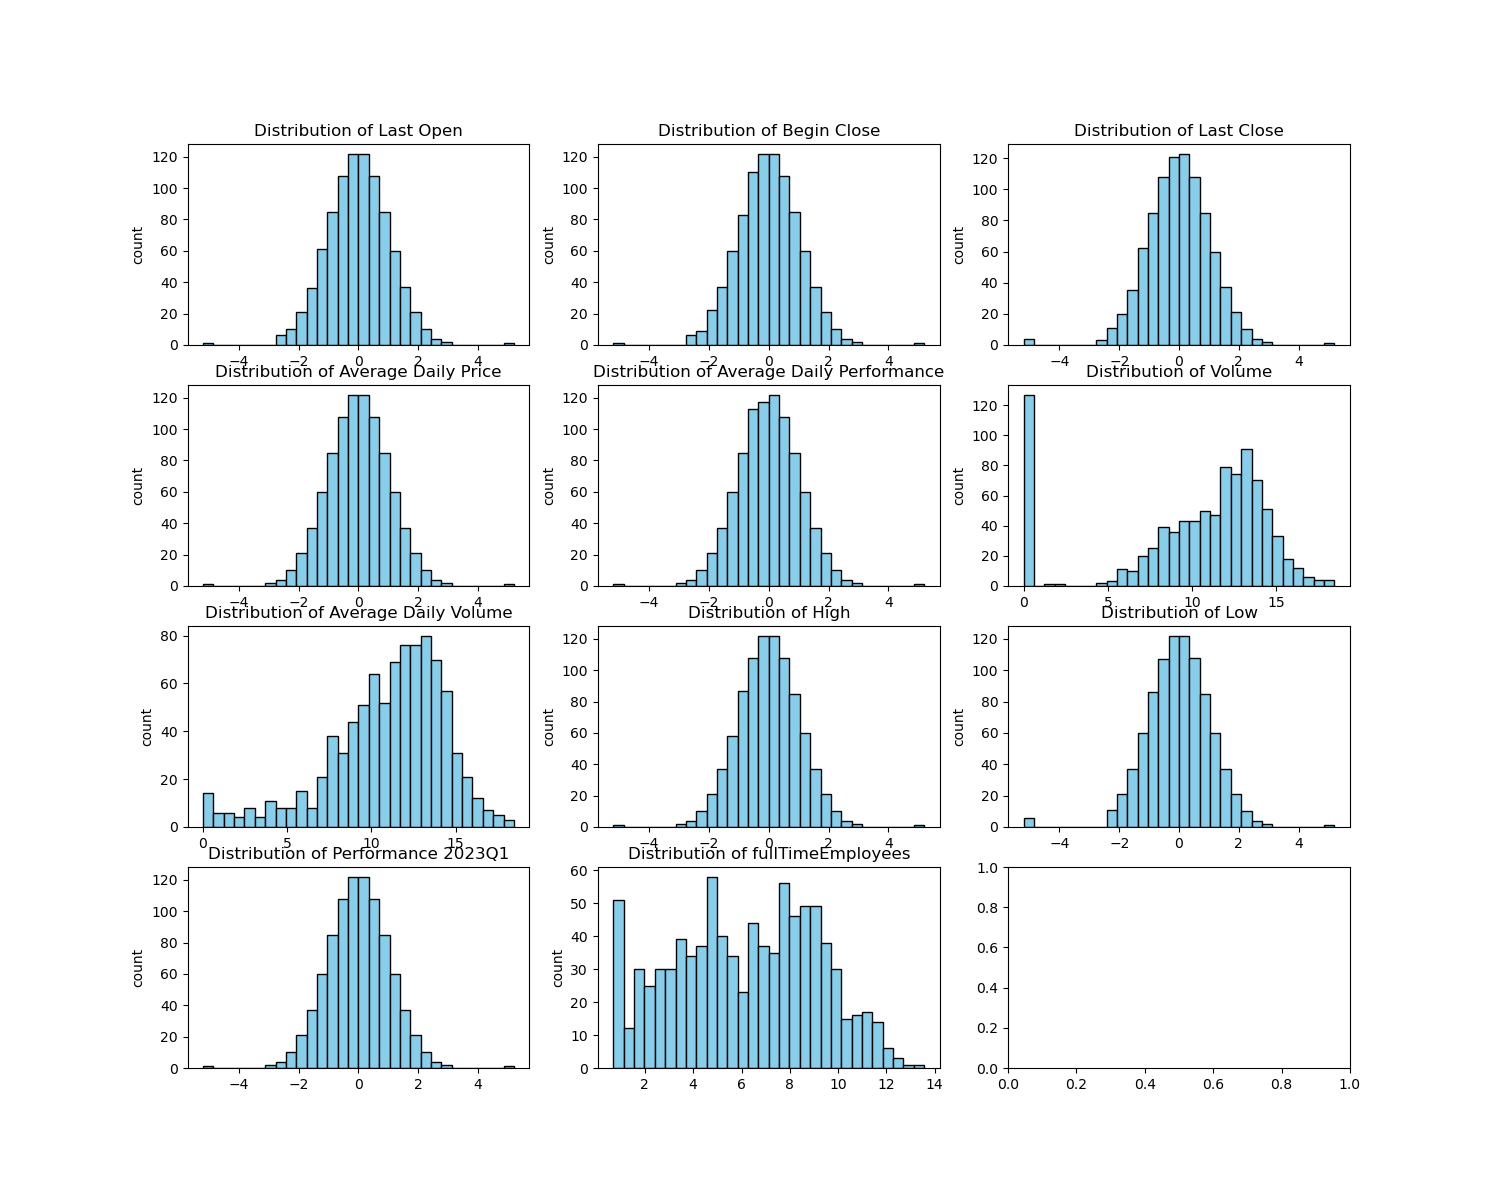
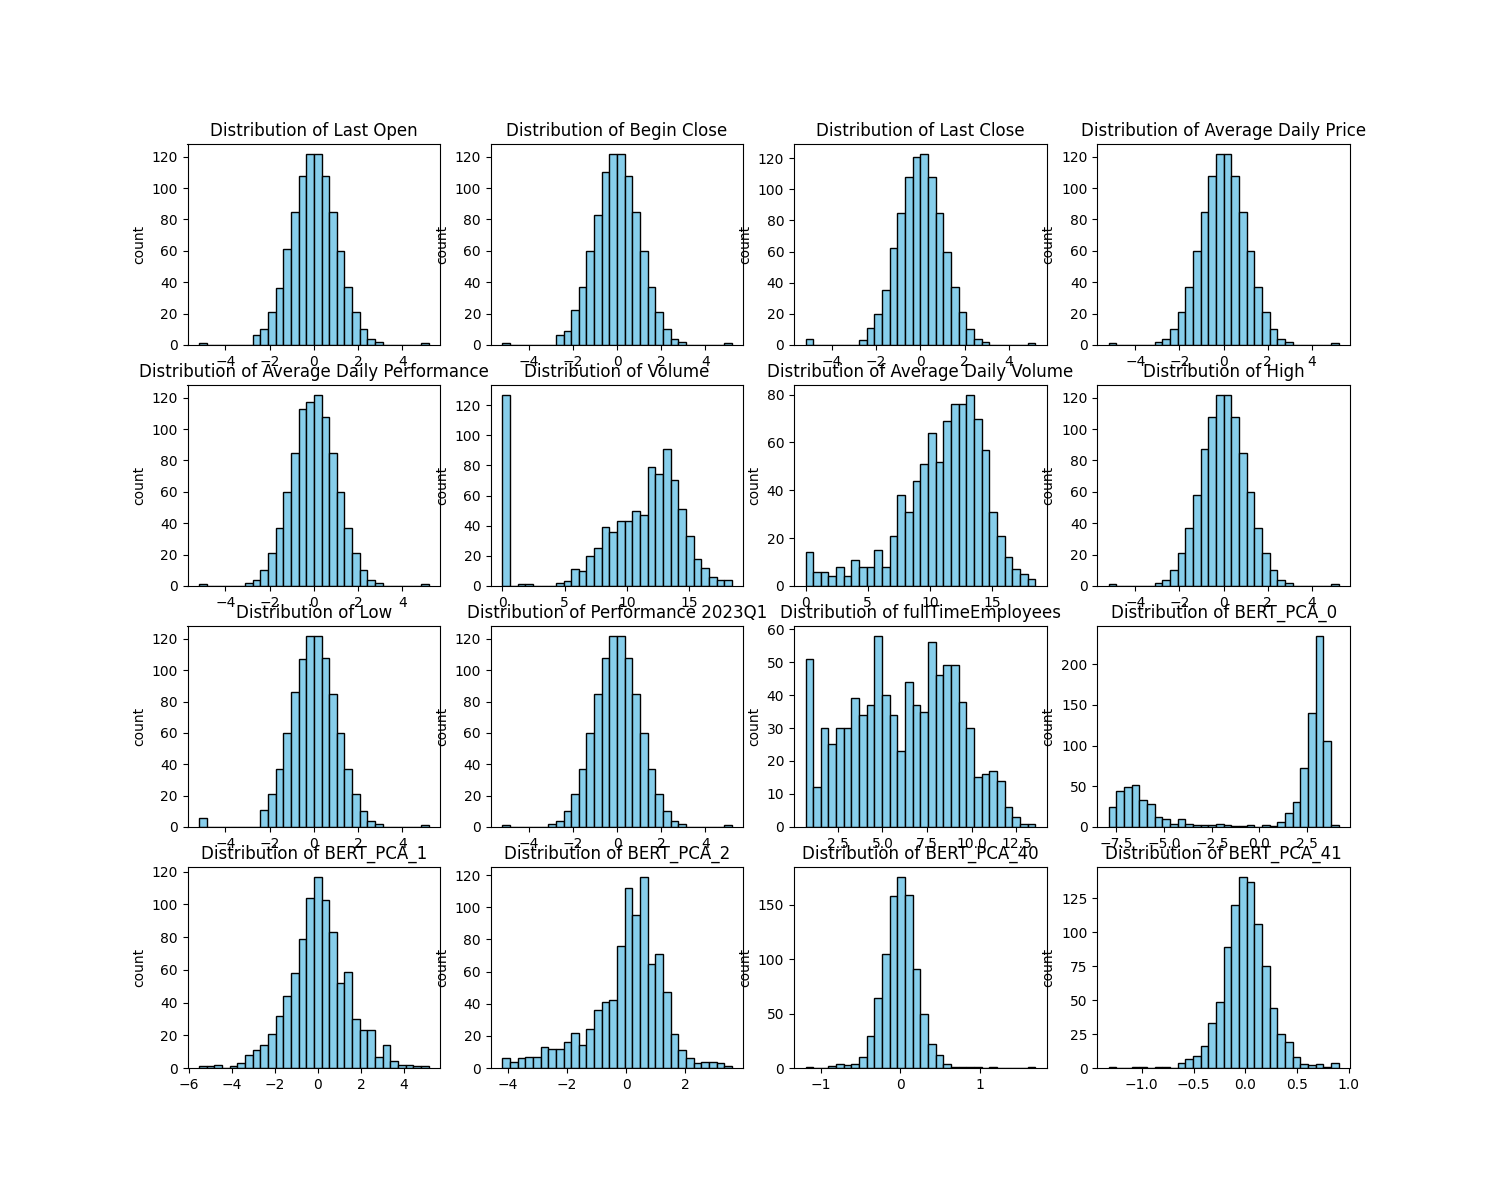
fixed the the relative path to absolute path

diff --git a/src/preprossessing_data.py b/src/preprossessing_data.py
@@ -20,7 +20,7 @@ def plot_missing_data(df: pd.DataFrame, title):
     ax.set_xlabel('Features')
     ax.set_ylabel('No. missing data')
     ax.set_title('Plot of number missing data')
-    plt.savefig(f'../output/plot/{title}')
+    plt.savefig(f'output/plot/{title}')
     plt.close(fig)
 
 
@@ -101,7 +101,7 @@ def encode_category(df):
 
 
 def process_category(df):
-    with open('../output/category_counts.txt', 'w') as f:
+    with open('output/category_counts.txt', 'w') as f:
         f.write(df['Relative 2023Q2 Label'].value_counts().to_string())
         f.write('\n\n')
         f.write(df['sector'].value_counts().to_string())
@@ -162,7 +162,7 @@ def plot_outcome(df):
     ax.grid(axis='both', which='major', linewidth=0.5)
     ax.set_title('Histogram of Stock performance in 2023Q2 relative to index stock performance')
     ax.set_xlabel('Relative percentage')
-    plt.savefig('../output/plot/histogram_relative')
+    plt.savefig('output/plot/histogram_relative')
     plt.close(fig)
 
 
@@ -176,7 +176,7 @@ def plot_employees(df):
     plt.xscale('log')
     ax.set_title('Histogram of Employees employed full-time')
     ax.set_xlabel('Full-time Employees')
-    plt.savefig('../output/plot/histogram_employee')
+    plt.savefig('output/plot/histogram_employee')
     plt.close(fig)
 
 
@@ -186,11 +186,11 @@ def plot_heatmap(df):
     fig, ax = plt.subplots(figsize=(10, 10))
     sns.heatmap(df_encoded.corr(numeric_only=True), cmap="YlGnBu")
     ax.set_title("Correlations Heatmap between features")
-    fig.savefig("../output/plot/heatmap")
+    fig.savefig("output/plot/heatmap")
     plt.close(fig)
 
 def main():
-    df = pd.read_csv('../data/stocks_data_processed.csv')
+    df = pd.read_csv('data/stocks_data_processed.csv')
     stocks = df['Company']
 
     plot_missing_data(df, 'missing_data')
@@ -202,7 +202,7 @@ def main():
     df_process['Stock'] = stocks #Rename and attach stock name at the end
 
     plot_heatmap(df_process)
-    df_process.to_csv('../data/stocks_data_processed_imputed.csv', index=False)
+    df_process.to_csv('data/stocks_data_processed_imputed.csv', index=False)
 
 
 if __name__ == '__main__':

diff --git a/src/outlier_detection.py b/src/outlier_detection.py
@@ -30,7 +30,7 @@ def outlier_detection(df):
     axs[1].scatter(df_encoded_pca[:, 0],
                    df_encoded_pca[:, 1], s=10, color=colors[(isf_outlier + 1) // 2])
     axs[1].set_title("Isolation Forest result")
-    plt.savefig("../output/plot/outlier_result")
+    plt.savefig("output/plot/outlier_result")
 
     plt.close(fig)
 
@@ -43,18 +43,18 @@ def outlier_detection(df):
                                    'Local Outlier Factor': lof_outlier,
                                    'Isolation Forest': isf_outlier,
                                    'Is both': both})
-    outlier_result.to_csv('../data/stock_outlier.csv', index=False)
+    outlier_result.to_csv('data/stock_outlier.csv', index=False)
 
     df_remove_outlier = df[np.logical_not(both)]
-    df_remove_outlier.to_csv('../data/stock_outlier_removed.csv', index=False)
+    df_remove_outlier.to_csv('data/stock_outlier_removed.csv', index=False)
 
-    with open('../output/outlier_result.txt', 'w') as f:
+    with open('output/outlier_result.txt', 'w') as f:
         f.write(f'Number of outliers detected using Local Outlier Factor:\t{lof_outlier_count}\n'
                 f'Number of outliers detected using Isolation Forest:\t{isf_outlier_count}\n'
                 f'Number of outliers detected using both methods:\t{both_count}')
 
 def main():
-    df = pd.read_csv('../data/stocks_data_normalized.csv')
+    df = pd.read_csv('data/stocks_data_normalized.csv')
     outlier_detection(df)
 
 if __name__ == '__main__':

diff --git a/src/compute_stock_index_performance.py b/src/compute_stock_index_performance.py
@@ -36,17 +36,17 @@ def extract_stock_performance(df):
 
 
 def main():
-    index_data = pd.read_csv("../data/index_data.csv", parse_dates=[0], date_format='%Y-%m-%d')
+    index_data = pd.read_csv("data/index_data.csv", parse_dates=[0], date_format='%Y-%m-%d')
     index_performance = extract_stock_performance(index_data)
-    index_performance.to_csv("../data/index_performance.csv", index=False)
+    index_performance.to_csv("data/index_performance.csv", index=False)
     snp_index = index_performance.loc["^GSPC"]
-    stocks_data = pd.read_csv("../data/stocks_data.csv", parse_dates=[0], date_format='%Y-%m-%d')
+    stocks_data = pd.read_csv("data/stocks_data.csv", parse_dates=[0], date_format='%Y-%m-%d')
     stocks_performance = extract_stock_performance(stocks_data)
     companies_list = filter_company_with_no_report(stocks_performance['Company'].unique())
     stocks_performance = stocks_performance[stocks_performance['Company'].isin(companies_list)]
 
     stocks_performance["Relative 2023Q2"] = stocks_performance['Performance 2023Q2'] - snp_index['Performance 2023Q2']
-    stocks_performance.to_csv("../data/stocks_performance.csv", index=False)
+    stocks_performance.to_csv("data/stocks_performance.csv", index=False)
 
 
 if __name__ == '__main__':

diff --git a/src/process_nlp_data.py b/src/process_nlp_data.py
@@ -25,8 +25,8 @@ def plot_nlp_pca(df: pd.DataFrame):
     ax.set_title("Cumulative Explained Variance Ratio by number of features using PCA")
     ax.set_ylabel('Cumulative Explained Variance Ratio')
     ax.set_xlabel('Number of Features')
-    plt.savefig('../output/plot/nlp_pca_variances')
-    with open('../output/pca_variance.txt', 'w') as f:
+    plt.savefig('output/plot/nlp_pca_variances')
+    with open('output/pca_variance.txt', 'w') as f:
         f.write(f'The PCA explains 80% variances at {er_80} first features\n'
                 f'The PCA explains 90% variances at {er_90} first features\n'
                 f'The PCA explains 95% variances at {er_95} first features')
@@ -42,10 +42,10 @@ def apply_pca(df):
 
 
 def main():
-    nlp_df = pd.read_csv('../data/nlp_features.csv')
+    nlp_df = pd.read_csv('data/nlp_features.csv')
     plot_nlp_pca(nlp_df)
     nlp_reduced = apply_pca(nlp_df)
-    nlp_reduced.to_csv('../data/nlp_features_reduced.csv', index=False)
+    nlp_reduced.to_csv('data/nlp_features_reduced.csv', index=False)
 
 
 if __name__ == '__main__':

diff --git a/src/organize_data_by_stocks.py b/src/organize_data_by_stocks.py
@@ -36,16 +36,16 @@ def extract_stock(df):
 
 
 def main():
-    stock_performance = pd.read_csv("../data/stocks_performance.csv")
-    stock_info = pd.read_csv("../data/stocks_info.csv")
-    nlp_data = pd.read_csv("../data/nlp_features_reduced.csv")
+    stock_performance = pd.read_csv("data/stocks_performance.csv")
+    stock_info = pd.read_csv("data/stocks_info.csv")
+    nlp_data = pd.read_csv("data/nlp_features_reduced.csv")
 
-    stock_data = pd.read_csv("../data/stocks_data.csv", parse_dates=[0], date_format='%Y-%m-%d')
+    stock_data = pd.read_csv("data/stocks_data.csv", parse_dates=[0], date_format='%Y-%m-%d')
     stock_data_extract = extract_stock(stock_data)
     df_merge1 = pd.merge(stock_data_extract, stock_performance, on='Company')
     df_merge2 = pd.merge(df_merge1, stock_info, on='Company')
     df_merge3 = pd.merge(df_merge2, nlp_data, on='Company')
-    df_merge3.to_csv("../data/stocks_data_processed.csv", index=False)
+    df_merge3.to_csv("data/stocks_data_processed.csv", index=False)
 
 
 if __name__ == '__main__':

diff --git a/src/normalized_nlp_data.py b/src/normalized_nlp_data.py
@@ -24,9 +24,9 @@ def normalization(df):
 
 def plot_histogram(df):
     numerical_columns = ['Last Open', 'Begin Close', 'Last Close', 'Average Daily Price', 'Average Daily Performance',
-                         'Volume', 'Average Daily Volume', 'High', 'Low', 'Performance 2023Q1', 'fullTimeEmployees']
+                         'Volume', 'Average Daily Volume', 'High', 'Low', 'Performance 2023Q1', 'fullTimeEmployees', 'BERT_PCA_0', 'BERT_PCA_1', 'BERT_PCA_2', 'BERT_PCA_40', 'BERT_PCA_41']
 
-    fig, axs = plt.subplots(4, 3, figsize=(15, 12))
+    fig, axs = plt.subplots(4, 4, figsize=(15, 12))
     for column, ax in zip(numerical_columns, axs.ravel()):
         ax.hist(df[column], bins=30, color='skyblue', edgecolor='black')
         ax.set_title(f'Distribution of {column}')

diff --git a/src/stocks_extract_extra_features.py b/src/stocks_extract_extra_features.py
@@ -9,7 +9,7 @@ def extract_stocks_info(stock):
     return pd.Series(info)
 
 def main():
-    stocks_data = pd.read_csv("../data/stocks_performance.csv")
+    stocks_data = pd.read_csv("data/stocks_performance.csv")
     companies_list = stocks_data['Company']
     company_info_list = []
     for company in companies_list:
@@ -21,7 +21,7 @@ def main():
                                        'industry', 'profitMargins', 'revenueGrowth', 'recommendationKey',
                                        'totalCashPerShare', 'exchange']]
     company_info_df['Company'] = companies_list
-    company_info_df.to_csv("../data/stocks_info.csv", index=False)
+    company_info_df.to_csv("data/stocks_info.csv", index=False)
 
 if __name__ == '__main__':
     main()

diff --git a/src/compute_stock_performance.py b/src/compute_stock_performance.py
@@ -3,7 +3,7 @@ import os
 ### TODO: The logic should work for any input of year and quarter
 
 def filter_company_with_no_report(companies_list):
-    quarter_folder_path = '../data/SEC_Filings'
+    quarter_folder_path = 'data/SEC_Filings'
     if not os.path.exists(quarter_folder_path):
         raise FileNotFoundError(f"The directory {quarter_folder_path} does not exist.")
 

diff --git a/src/extract_10q.py b/src/extract_10q.py
@@ -160,7 +160,7 @@ def get_sanitized_tickers(df, ciks):
 
 
 def main():
-    path_dir = '../data/SEC_Filings'
+    path_dir = 'data/SEC_Filings'
     if not os.path.exists(path_dir):
         os.makedirs(path_dir)
 
